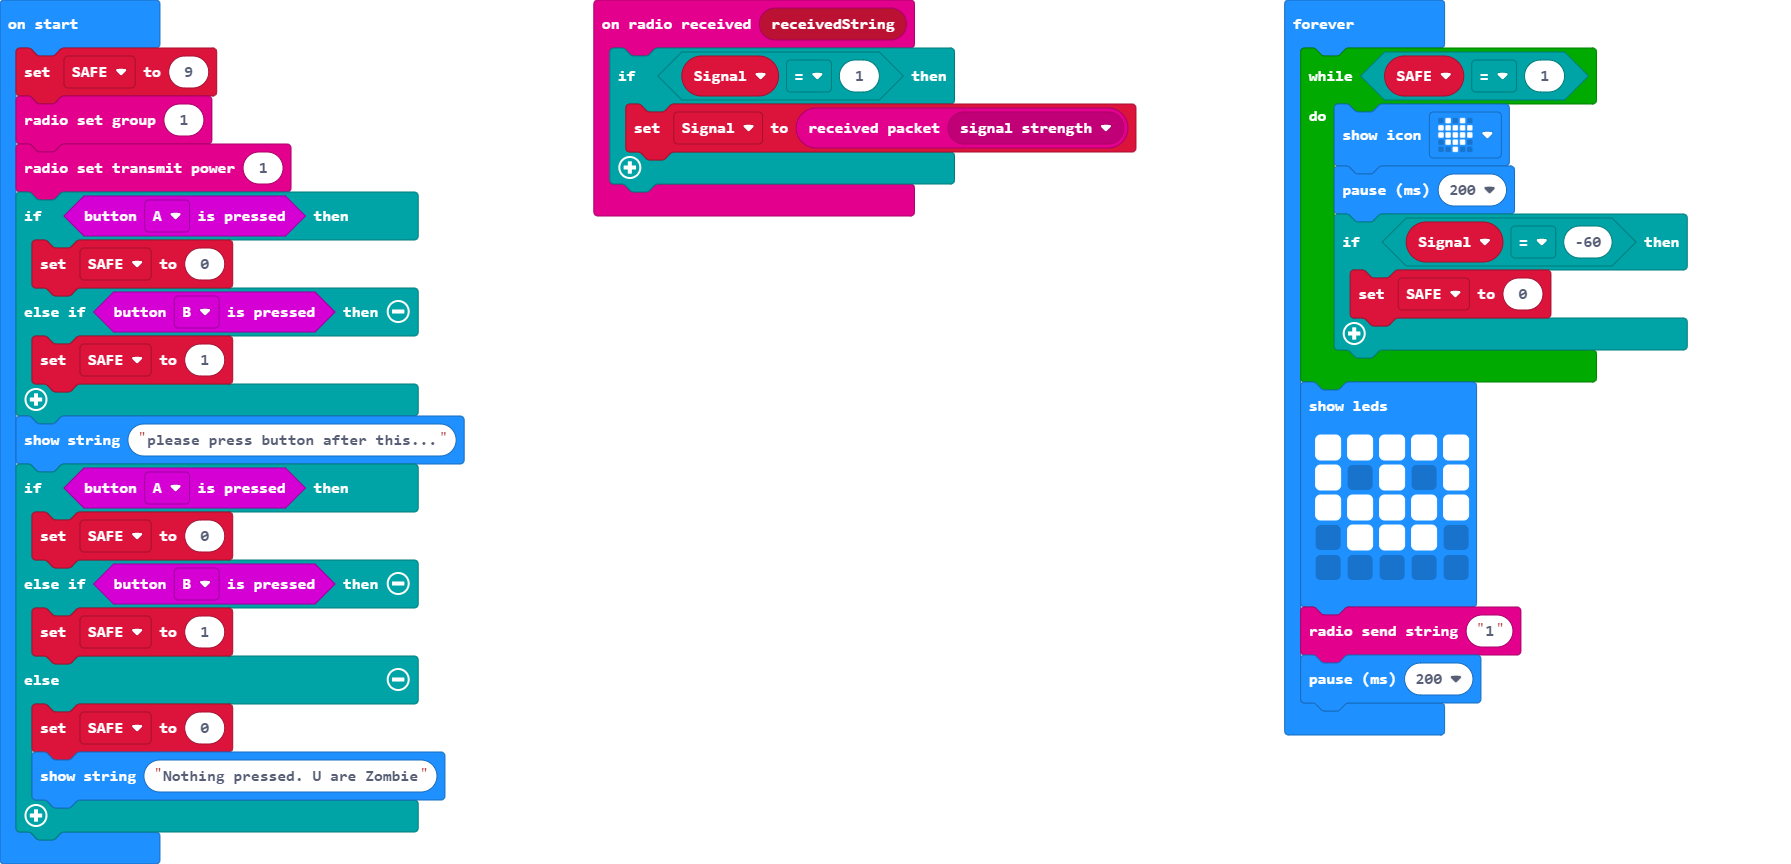
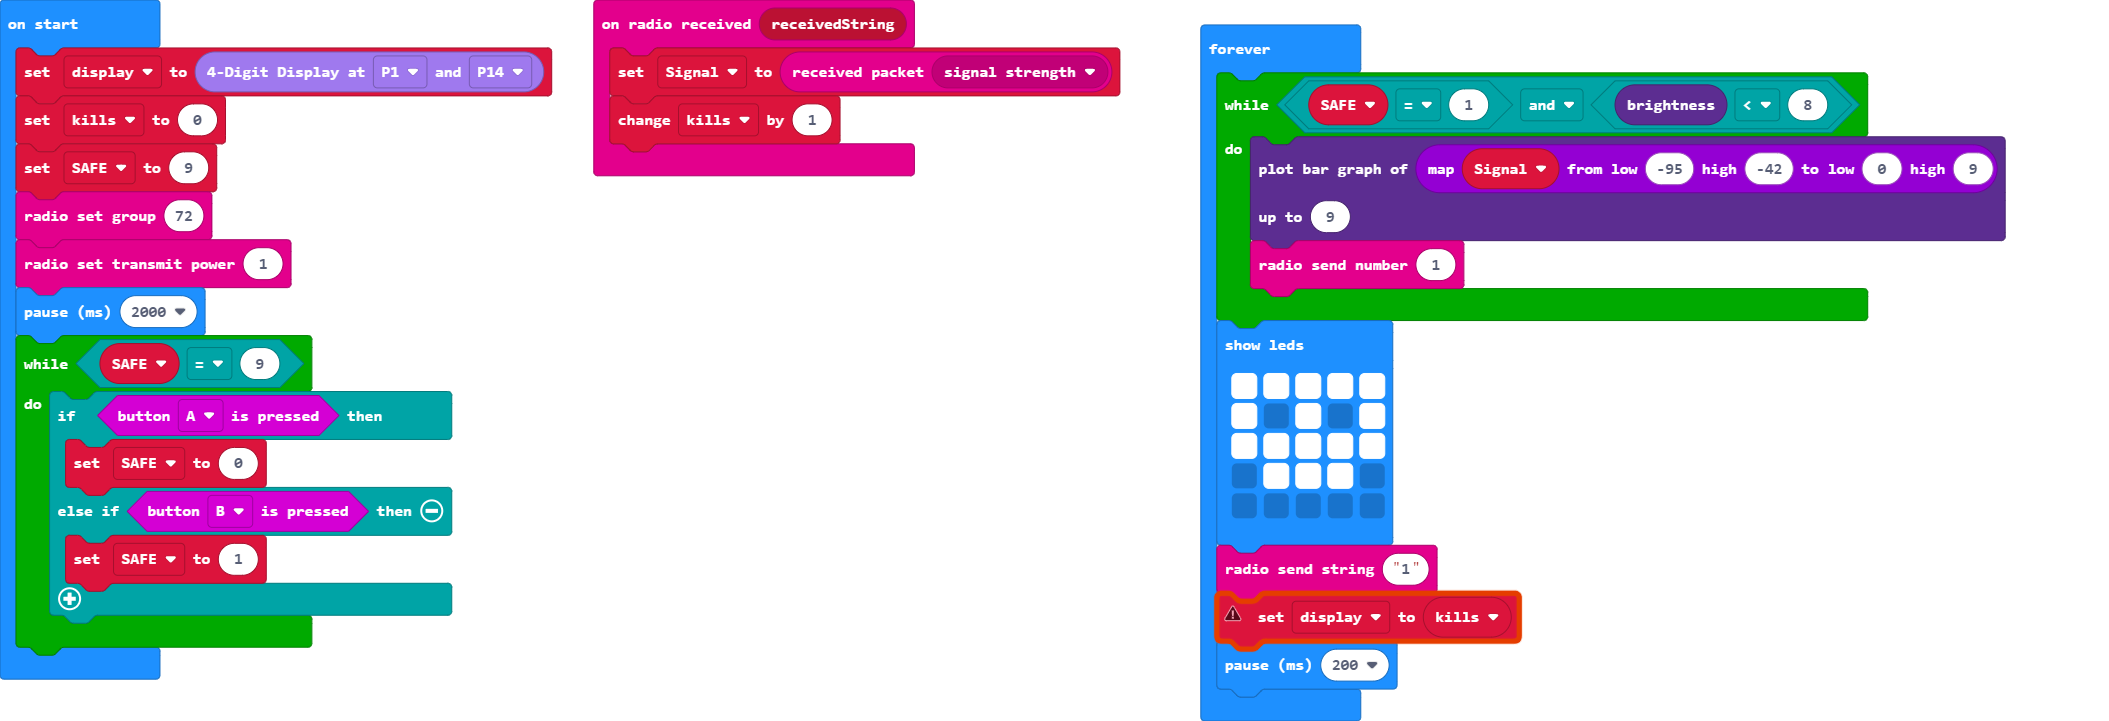
Update main.blocks, main.ts

diff --git a/main.ts b/main.ts
@@ -1,33 +1,28 @@
 radio.onReceivedString(function (receivedString) {
-    if (Signal == 1) {
-        Signal = radio.receivedPacket(RadioPacketProperty.SignalStrength)
-    }
+    Signal = radio.receivedPacket(RadioPacketProperty.SignalStrength)
+    kills += 1
 })
 let Signal = 0
+let display = grove.createDisplay(DigitalPin.P1, DigitalPin.P14)
+let kills = 0
 let SAFE = 9
-radio.setGroup(1)
+radio.setGroup(72)
 radio.setTransmitPower(1)
-if (input.buttonIsPressed(Button.A)) {
-    SAFE = 0
-} else if (input.buttonIsPressed(Button.B)) {
-    SAFE = 1
-}
-basic.showString("please press button after this...")
-if (input.buttonIsPressed(Button.A)) {
-    SAFE = 0
-} else if (input.buttonIsPressed(Button.B)) {
-    SAFE = 1
-} else {
-    SAFE = 0
-    basic.showString("Nothing pressed. U are Zombie")
+basic.pause(2000)
+while (SAFE == 9) {
+    if (input.buttonIsPressed(Button.A)) {
+        SAFE = 0
+    } else if (input.buttonIsPressed(Button.B)) {
+        SAFE = 1
+    }
 }
 basic.forever(function () {
-    while (SAFE == 1) {
-        basic.showIcon(IconNames.Heart)
-        basic.pause(200)
-        if (Signal == -60) {
-            SAFE = 0
-        }
+    while (SAFE == 1 && led.brightness() < 8) {
+        led.plotBarGraph(
+        Math.map(Signal, -95, -42, 0, 9),
+        9
+        )
+        radio.sendNumber(1)
     }
     basic.showLeds(`
         # # # # #
@@ -37,5 +32,6 @@ basic.forever(function () {
         . . . . .
         `)
     radio.sendString("1")
+    display = kills
     basic.pause(200)
 })
